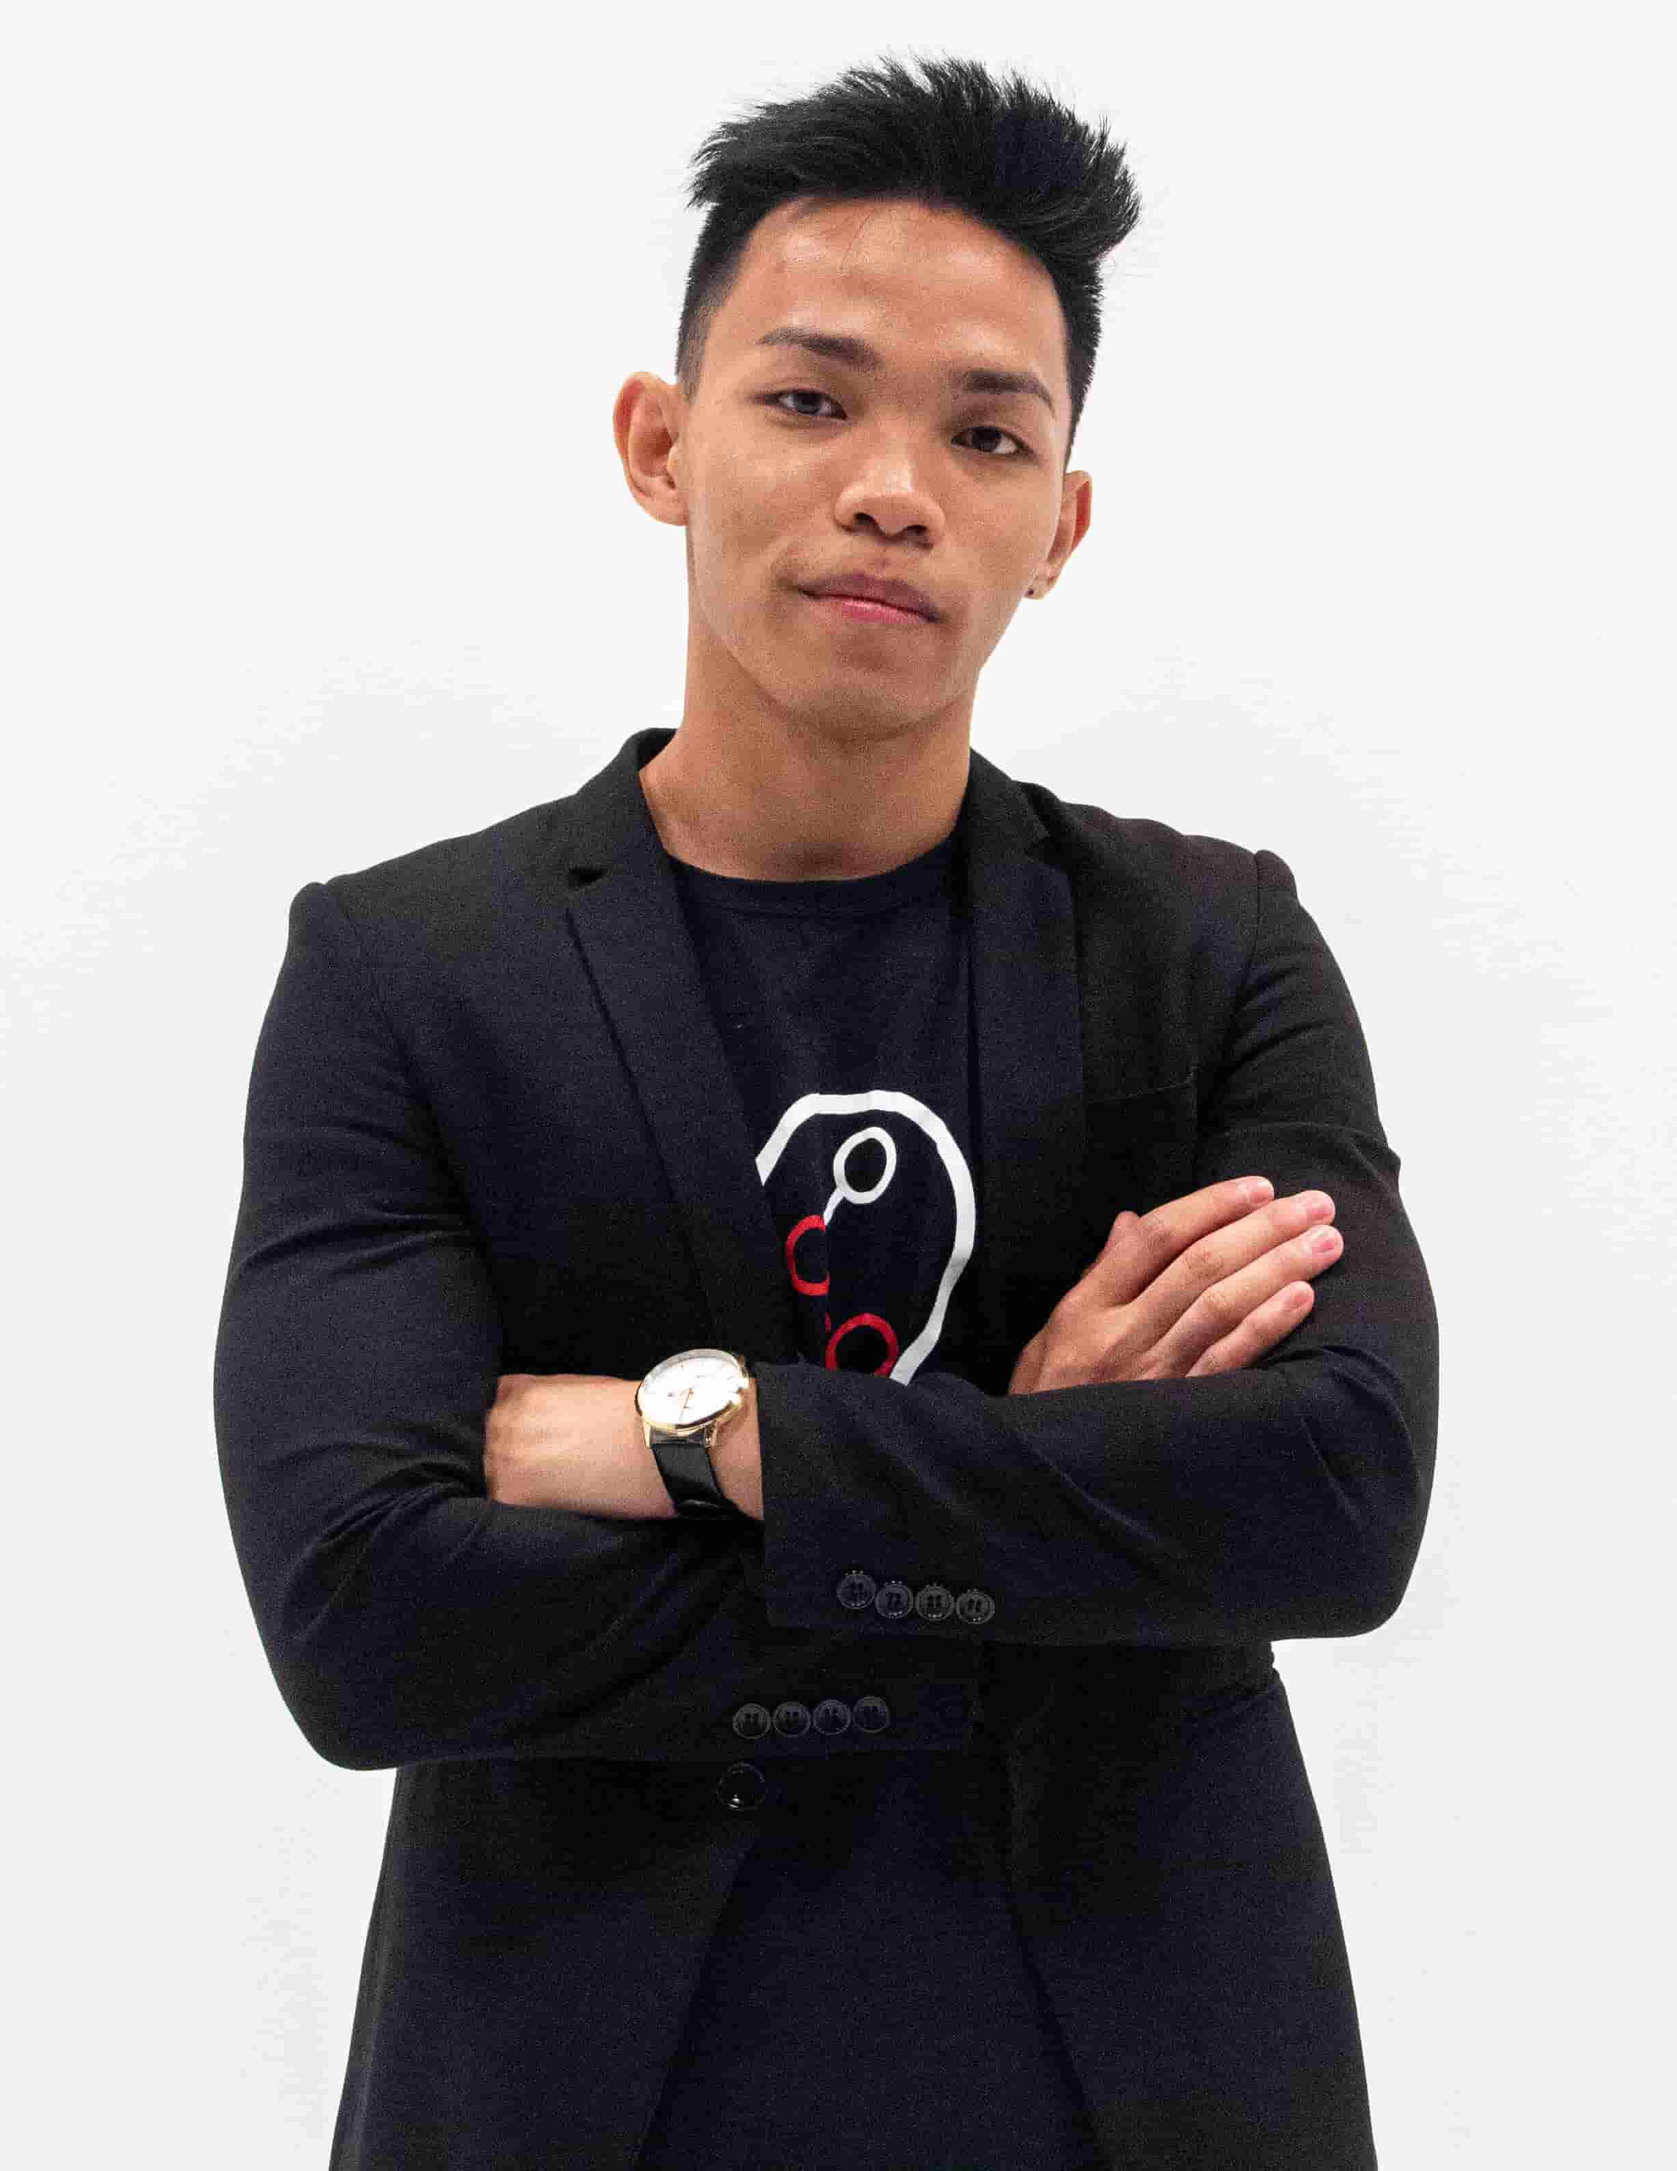
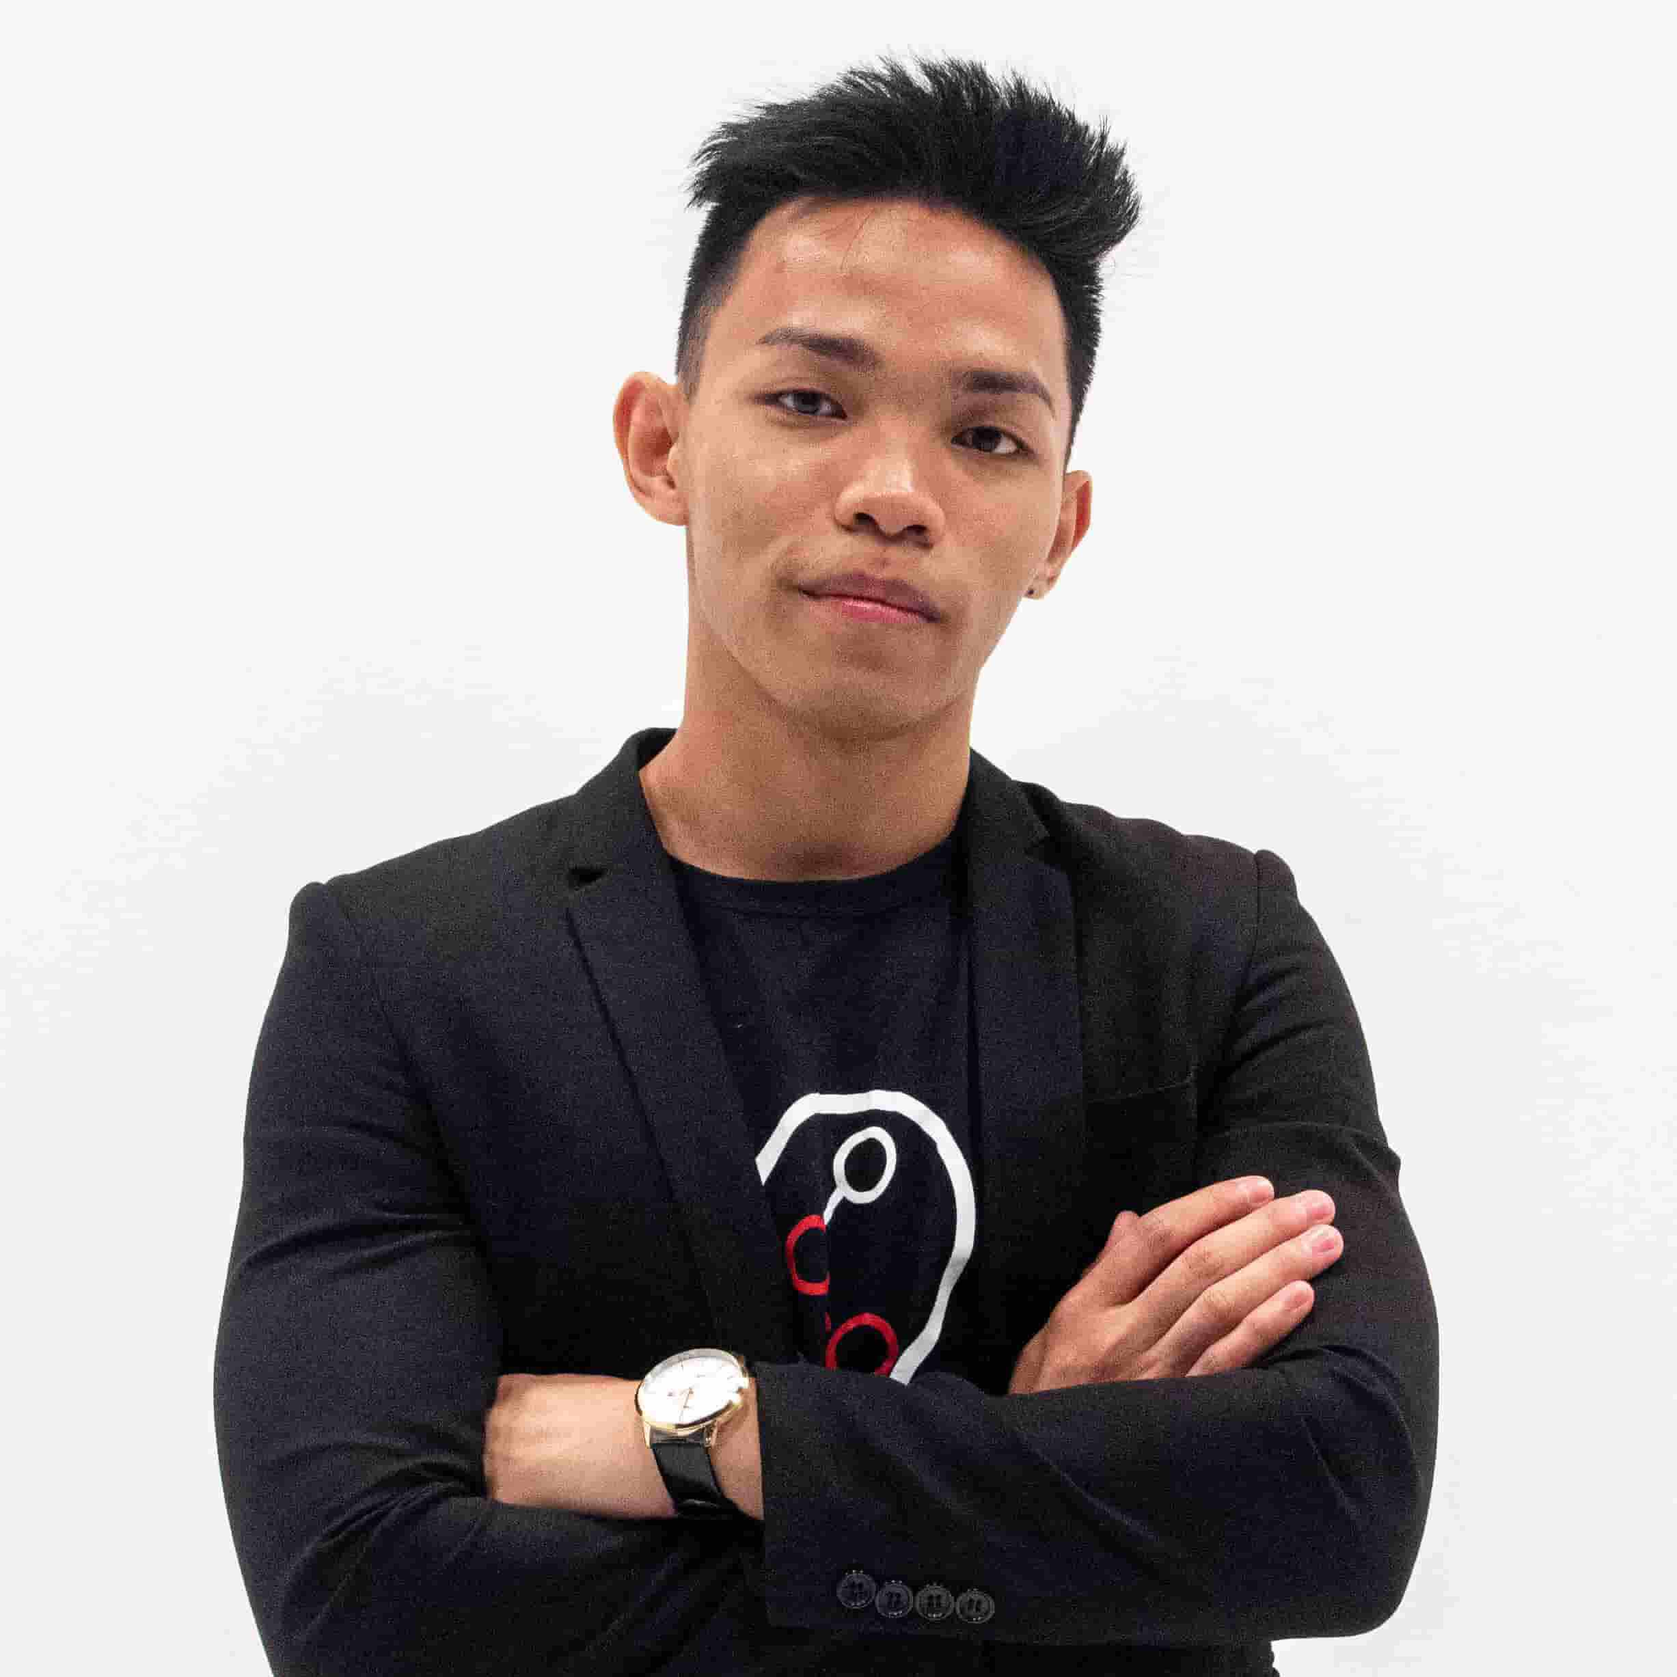
Updated website with 2020 Team
Navbar updated
Images rescaled and compressed further
carousel modified

diff --git a/_includes/2020-team-description.html b/_includes/2020-team-description.html
@@ -84,8 +84,8 @@
             <div class="col-md-3">
                 <div class="card">
                     <img class="card-img-top img-fluid"
-                        src="/images/2020/individual/President - Jacquelyn Ting Chiew Ling(1).jpg" alt="Jacquelyn Ting"
-                        style="border-top-left-radius: 15px; border-top-right-radius: 15px">
+                        src="/images/2020/individual/Presidential/President - Jacquelyn Ting Chiew Ling(1).jpg"
+                        alt="Jacquelyn Ting" style="border-top-left-radius: 15px; border-top-right-radius: 15px">
                     <div class="card-body">
                         <h1 class="card-text"><strong>Jacquelyn Ting Chiew Ling</strong><br><em>President</em></h1>
                     </div>
@@ -289,7 +289,8 @@
             </div>
         </div>
         <div class="row" id="curation-cards">
-            <div class="col-md">
+            <div class="col-md"></div>
+            <div class="col-md-3">
                 <div class="card">
                     <img class="card-img-top img-fluid"
                         src="/images/2020/individual/Curation/Lead Curator - Yip Ren-Wei(2)-min-min.jpg" alt="Xi Wen"
@@ -299,7 +300,7 @@
                     </div>
                 </div>
             </div>
-            <div class="col-md">
+            <div class="col-md-3">
                 <div class="card">
                     <img class="card-img-top img-fluid"
                         src="/images/2020/individual/Curation/Curator - Cai Ruihan(2)-min-min.jpg" alt="Manal"
@@ -309,7 +310,7 @@
                     </div>
                 </div>
             </div>
-            <div class="col-md">
+            <div class="col-md-3">
                 <div class="card">
                     <img class="card-img-top img-fluid"
                         src="/images/2020/individual/Curation/Curator - Phoebe Leong Zhi-Xin(2)-min-min.jpg"
@@ -319,7 +320,12 @@
                     </div>
                 </div>
             </div>
-            <div class="col-md">
+            <div class="col-md"></div>
+
+        </div>
+        <div class="row" id="curation-cards">
+            <div class="col-md-3"></div>
+            <div class="col-md-3">
                 <div class="card">
                     <img class="card-img-top img-fluid"
                         src="/images/2020/individual/Curation/Curator - Robbie Lee Jie(2)-min-min.jpg" alt="Adelene"
@@ -329,7 +335,7 @@
                     </div>
                 </div>
             </div>
-            <div class="col-md">
+            <div class="col-md-3">
                 <div class="card">
                     <img class="card-img-top img-fluid"
                         src="/images/2020/individual/Curation/Curator - Usha Nambiar(1)-min-min.jpg" alt="Adelene"
@@ -339,6 +345,7 @@
                     </div>
                 </div>
             </div>
+            <div class="col-md-3"></div>
         </div>
     </div>
 
@@ -367,7 +374,8 @@
             </div>
         </div>
         <div class="row" id="design-cards">
-            <div class="col-md">
+            <div class="col-md-3"></div>
+            <div class="col-md-3">
                 <div class="card">
                     <img class="card-img-top"
                         src="/images/2020/individual/Designer/Lead Designer - Abirami M Ramanathan.jpg" alt="Ken-Ji"
@@ -377,7 +385,7 @@
                     </div>
                 </div>
             </div>
-            <div class="col-md">
+            <div class="col-md-3">
                 <div class="card">
                     <img class="card-img-top"
                         src="/images/2020/individual/Designer/Designer - Lee Zhen Yuan(2)-min-min.jpg" alt="Sandra"
@@ -425,6 +433,15 @@
                         style="border-top-left-radius: 15px; border-top-right-radius: 15px">
                     <div class="card-body">
                         <h1 class="card-text"><strong>Anis Nabila</strong><br><em>Event Manager</em></p>
+                    </div>
+                </div>
+            </div>
+            <div class="col-md-3">
+                <div class="card">
+                    <img class="card-img-top" src="/images/2020/individual/noavatar.png" alt="Chi Ken"
+                        style="border-top-left-radius: 15px; border-top-right-radius: 15px">
+                    <div class="card-body">
+                        <h1 class="card-text"><strong>Irene Ng</strong><br><em>Assistant Event Manager</em></p>
                     </div>
                 </div>
             </div>
@@ -776,7 +793,7 @@
             </div>
         </div>
         <div class="row" id="treasury-cards">
-            <div class="col-md-3"></div>
+            <div class="col-md"></div>
             <div class="col-md-3">
                 <div class="card">
                     <img class="card-img-top"
@@ -807,7 +824,7 @@
                     </div>
                 </div>
             </div>
-            <div class="col-md-3"></div>
+            <div class="col-md"></div>
         </div>
     </div>
 </div>

diff --git a/_includes/2020-team-carousel.html b/_includes/2020-team-carousel.html
@@ -31,7 +31,7 @@
         <div class="carousel-item active">
             <div class="view">
                 <a href="#presidential-team"><img class="d-block w-80"
-                        style="width: xpx; margin: 0 auto; max-width: 100%"
+                        style="max-height:55em; margin: 0 auto; max-width: 100%"
                         src="/images/2020/departmental/Presidential Team(6).jpg" alt="First slide"></a>
             </div>
             <div class="carousel-caption">
@@ -41,7 +41,8 @@
 
         <div class="carousel-item">
             <div class="view">
-                <a href="#design-team"><img class="d-block w-80" style="width: xpx; margin: 0 auto; max-width: 100%"
+                <a href="#design-team"><img class="d-block w-80"
+                        style="max-height:55em; margin: 0 auto; max-width: 100%"
                         src="/images/2020/departmental/Design Team(2).jpg" alt="Second slide"></a>
             </div>
             <div class="carousel-caption">
@@ -51,7 +52,8 @@
 
         <div class="carousel-item">
             <div class="view">
-                <a href="#logistics-team"><img class="d-block w-80" style="width: xpx; margin: 0 auto; max-width: 100%"
+                <a href="#logistics-team"><img class="d-block w-80"
+                        style="max-height:55em; margin: 0 auto; max-width: 100%"
                         src="/images/2020/departmental/Logistics Team(1).jpg" alt="Third slide"></a>
             </div>
             <div class="carousel-caption">
@@ -61,7 +63,7 @@
 
         <div class="carousel-item">
             <div class="view">
-                <a href="#it-team"><img class="d-block w-80" style="width: xpx; margin: 0 auto; max-width: 100%"
+                <a href="#it-team"><img class="d-block w-80" style="max-height:55em; margin: 0 auto; max-width: 100%"
                         src="/images/2020/departmental/IT Team(2).jpg" alt="Fourth slide"></a>
             </div>
             <div class="carousel-caption">
@@ -72,7 +74,7 @@
         <div class="carousel-item">
             <div class="view">
                 <a href="#sponsorship-team"><img class="d-block w-80"
-                        style="width: xpx; margin: 0 auto; max-width: 100%"
+                        style="max-height:55em; margin: 0 auto; max-width: 100%"
                         src="/images/2020/departmental/Sponsorship Team.jpg" alt="Fifth slide"></a>
             </div>
             <div class="carousel-caption">
@@ -82,7 +84,8 @@
 
         <div class="carousel-item">
             <div class="view">
-                <a href="#treasury-team"><img class="d-block w-80" style="width: xpx; margin: 0 auto; max-width: 100%"
+                <a href="#treasury-team"><img class="d-block w-80"
+                        style="max-height:55em; margin: 0 auto; max-width: 100%"
                         src="/images/2020/departmental/Treasury Team(2).jpg" alt="Sixth slide"></a>
             </div>
             <div class="carousel-caption">

diff --git a/_includes/navbar.html b/_includes/navbar.html
@@ -68,6 +68,7 @@
           <a class="nav-link dropdown-toggle" href="#" id="navbarDropdownMenuLink" data-toggle="dropdown"
             aria-haspopup="true" aria-expanded="false"> Team</a>
           <div class="dropdown-menu" aria-labelledby="navbarDropdownMenuLink">
+            <a class="dropdown-item" href="/team/2020">2020</a>
             <a class="dropdown-item" href="/team/2019">2019</a>
             <a class="dropdown-item" href="/team/2018">2018</a>
           </div>

diff --git a/team/2020.html b/team/2020.html
@@ -5,7 +5,7 @@ title: The Team
 
 <div class="container text-center">
     <h1 class="page-title" style="font-family: Montserrat;">Team</h1>
-    <h1 class="page-title" style="font-family: Montserrat; font-size: 24px; color: #1E1E1E">2019</h1>
+    <h1 class="page-title" style="font-family: Montserrat; font-size: 24px; color: #1E1E1E">2020</h1>
 </div>
 
 {% include 2020-team-carousel.html %}
